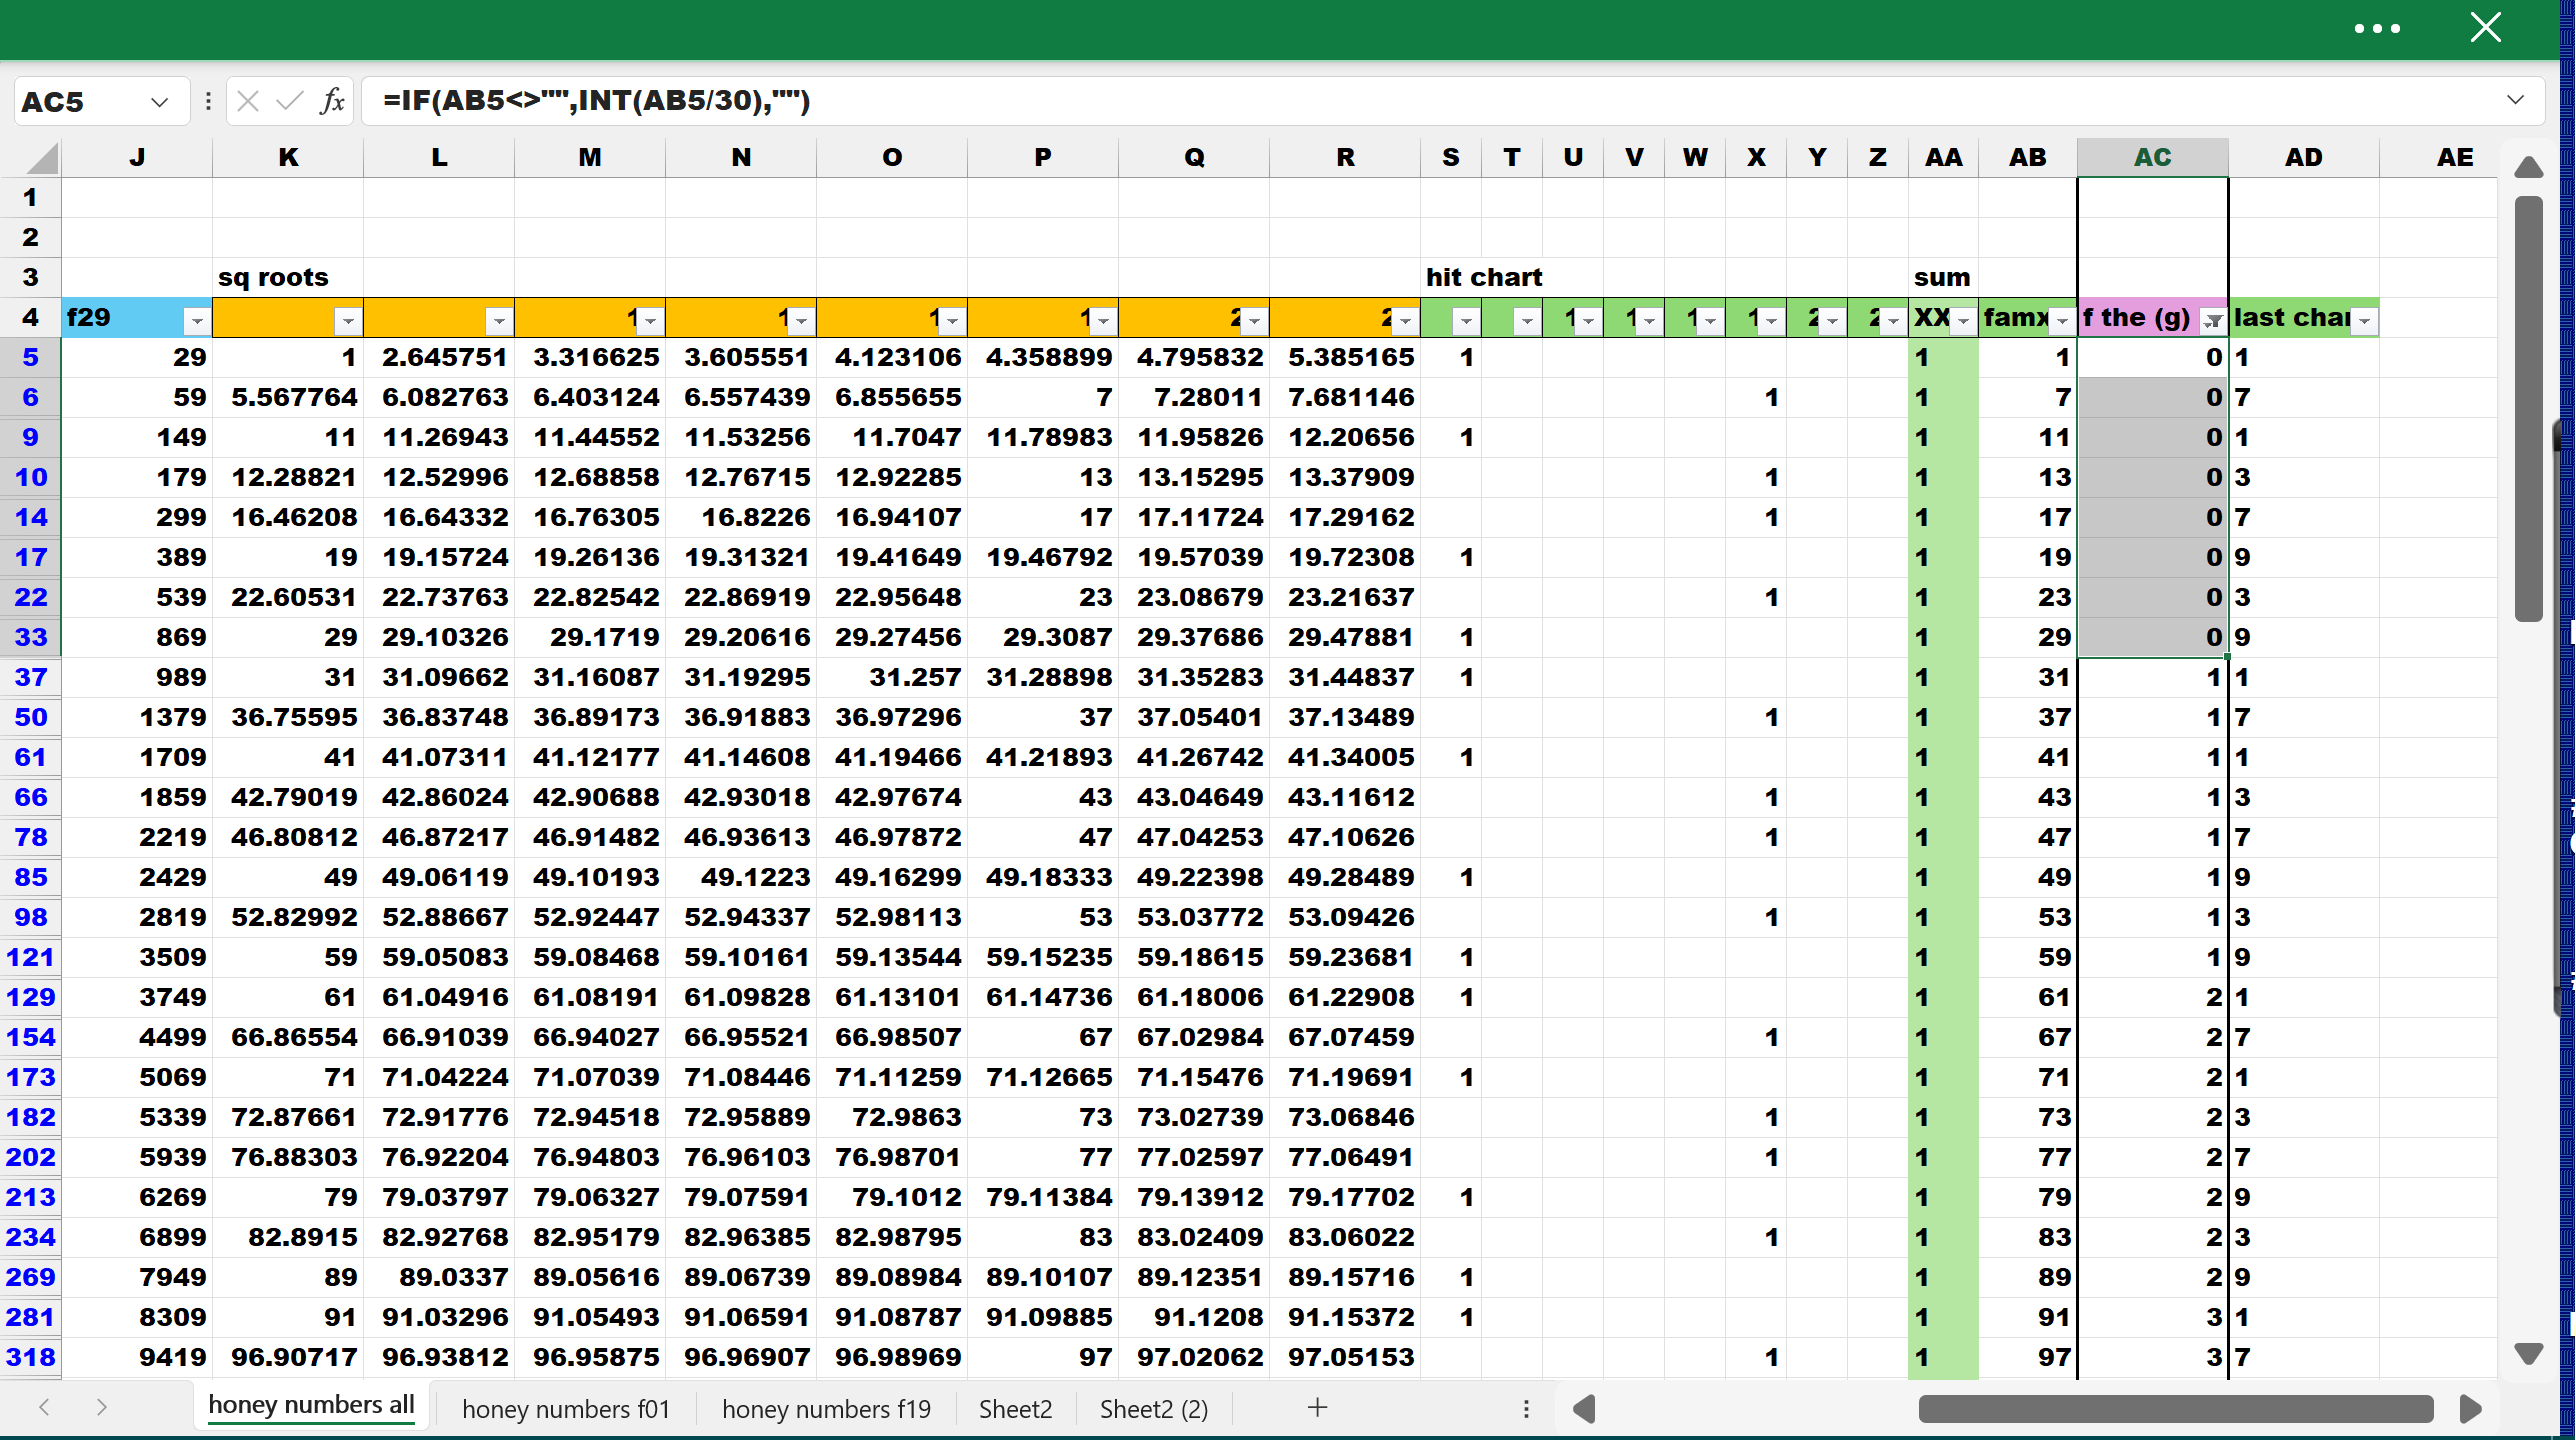
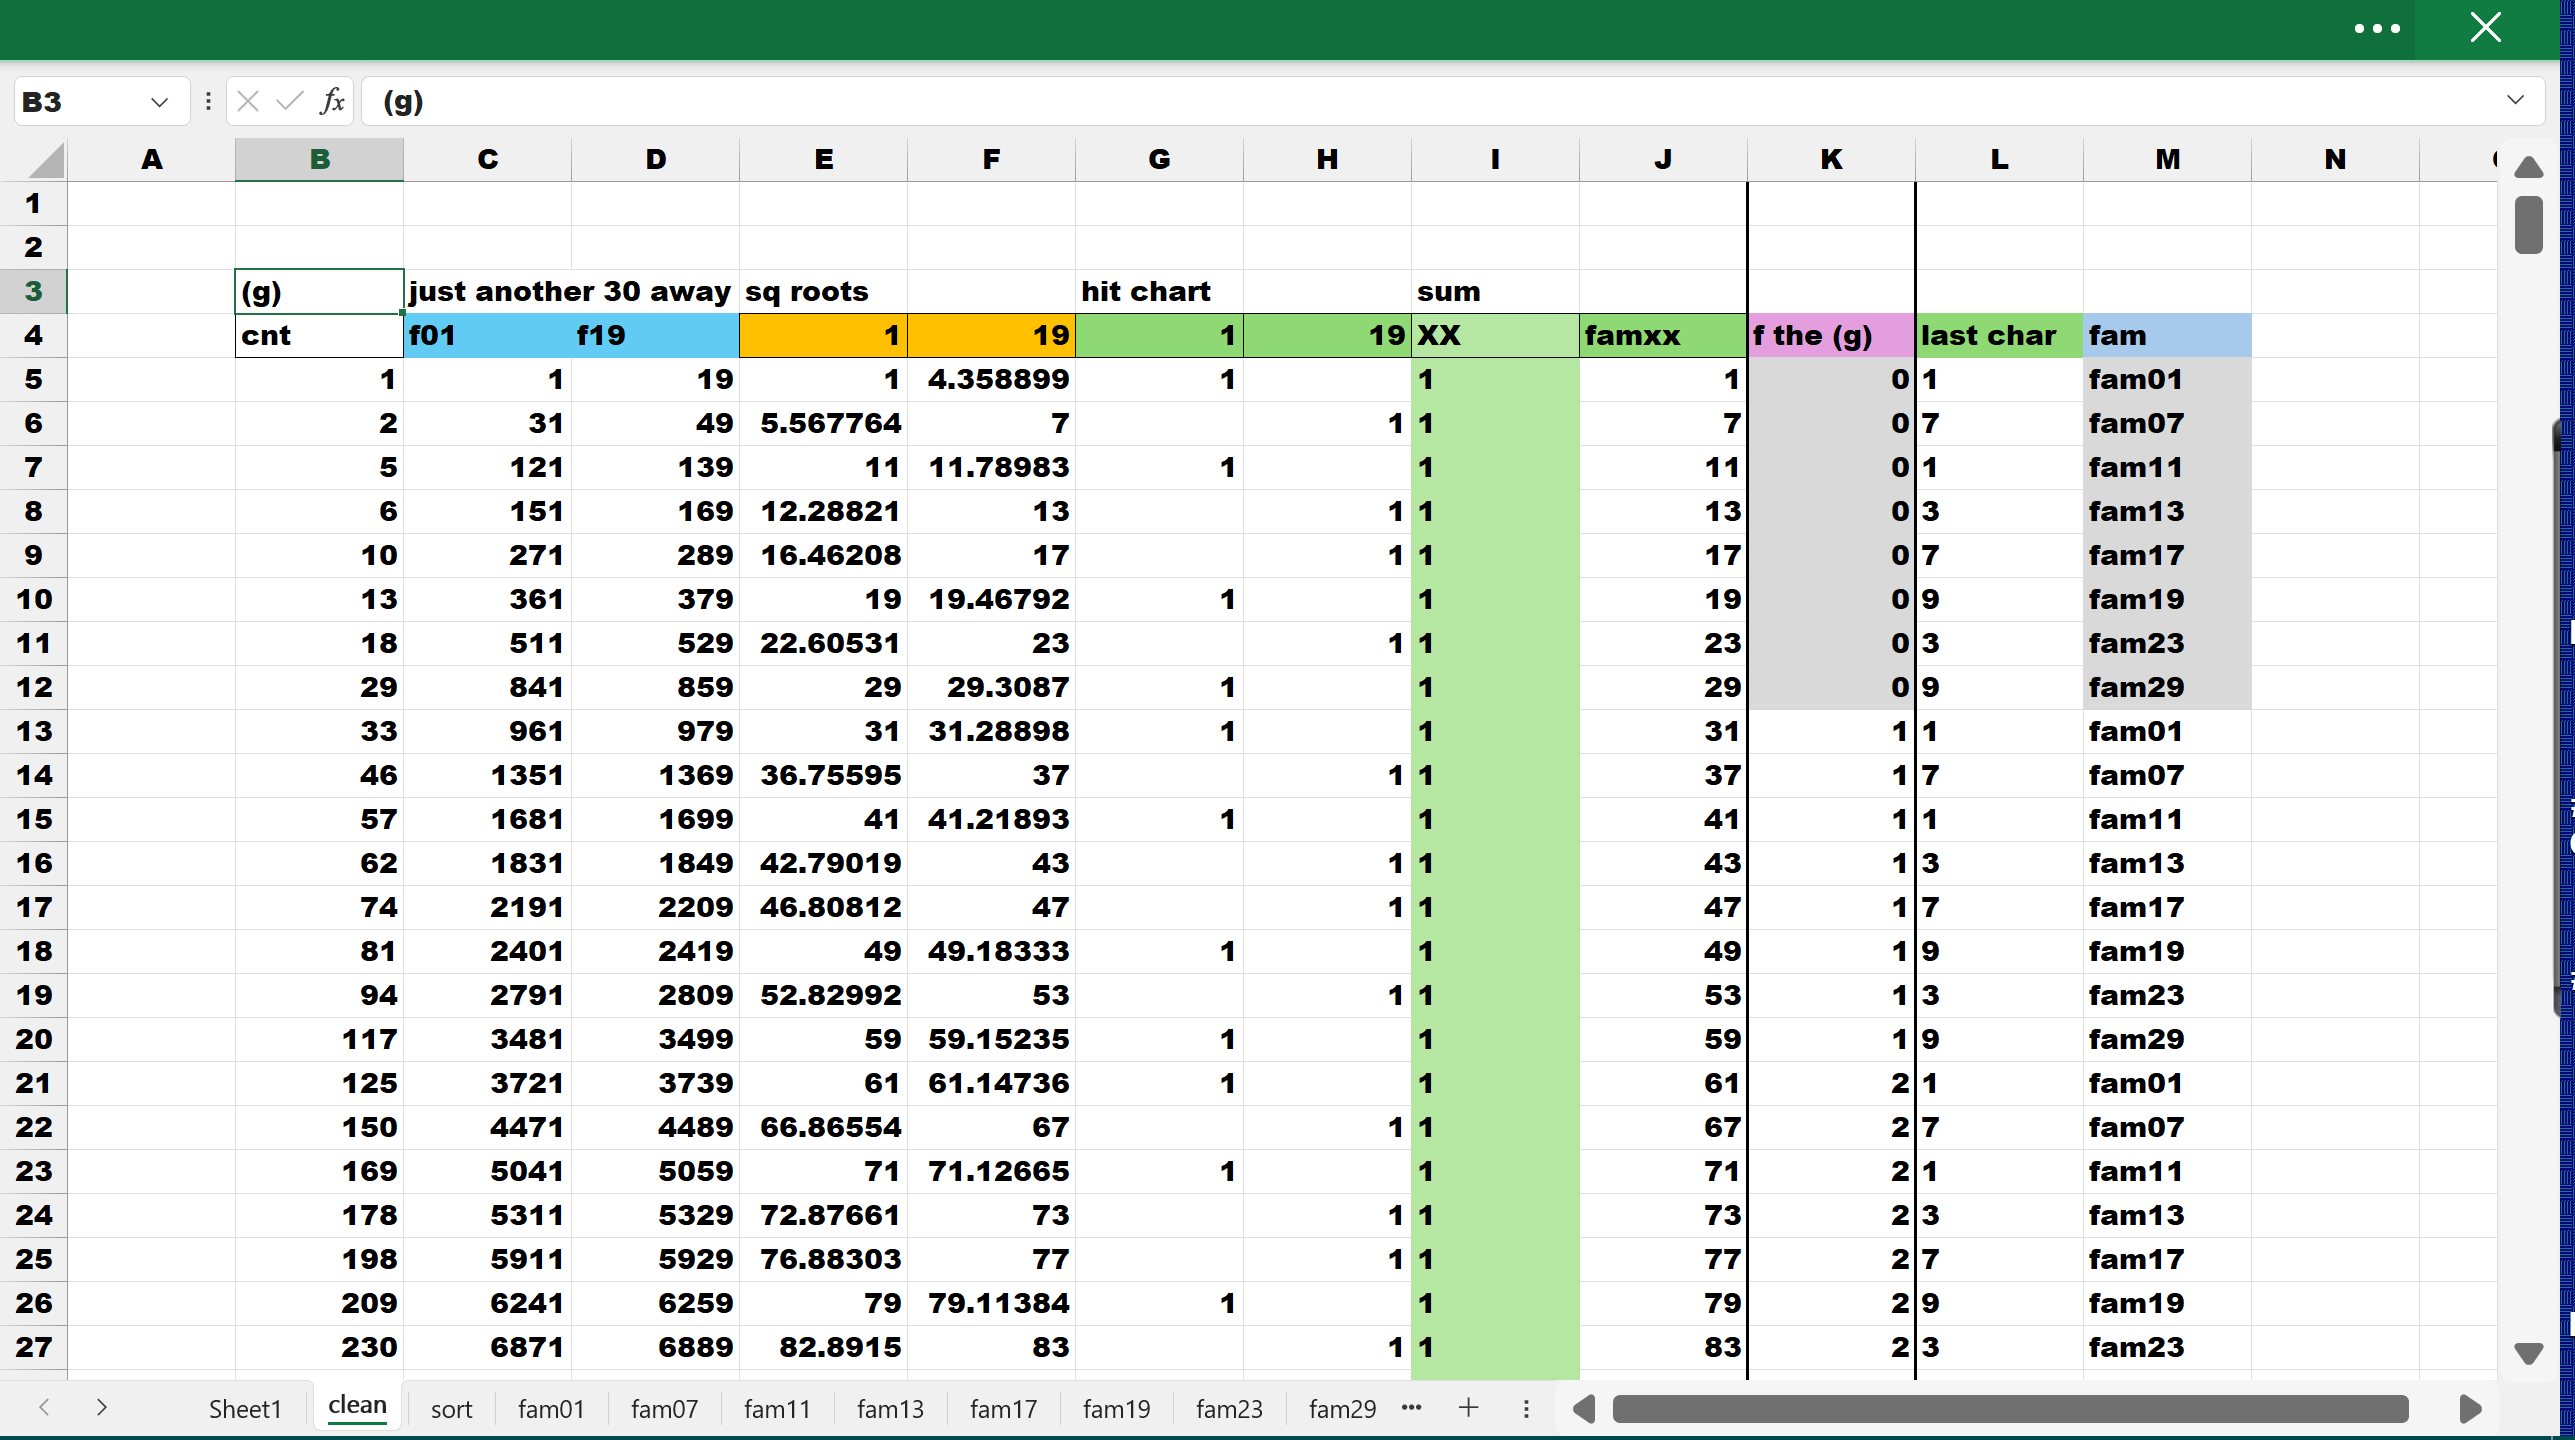
1500 c

diff --git a/html/Chapter 1500 Honey Numbers c.html b/html/Chapter 1500 Honey Numbers c.html
@@ -17,7 +17,8 @@ Since the only two families (*fam01 and *fam19) present integer values , what el
 <br>
 What else can be revealed ?
 <br>
-Spinning off all the extranious data , and norrowing the focus to only *fam01 and *fam19 presents addition unique data.
+Spinning off all the extranious data , and norrowing the focus to only *fam01 and *fam19 will present
+<br> addition unique data.
 <br>
 Here is the unfiltered data again.  
 <br>
@@ -25,11 +26,32 @@ Here is the unfiltered data again.
 <img src="../scr/Chapter_1502_01.png">
 <p></p>
    
-
-
 </p>  
 	  
-	  
+<p>
+This is the two families (*fam01 and *fam19) cleaned up , with no extraniuos data.
+<br>
+The 'just another 30 away' values are in columns C and D (blue).
+<br>
+The  "sq root" are in columns E and F (gold).
+<br>
+Followed by the "hit chart" in columns G and H (green).
+<br>
+"sum" is the sumation of the "hit chart" column I.
+<br>
+"famxx" is the integer value from the "sq root" columns.
+<br>
+The column K is "f the (g)" (find the (g)).
+<br>
+The last column M is "fam" which will be used to sort the data again.
+
+<p></p>
+<img src="../scr/Chapter_1502_02.png">
+<p></p>
+   
+
+
+</p>    
 	  
 	  
 	  
@@ -66,7 +88,7 @@ Here is the unfiltered data again.
 
 
 
-<a href="https://cashfields.github.io/PrimeSuspects/html/Chapter 1500 Honey Numbers c.html" target="_self">next</a>
+<a href="https://cashfields.github.io/PrimeSuspects/html/Chapter 1500 Honey Numbers d.html" target="_self">next</a>
 <br>
 <a href="https://cashfields.github.io/PrimeSuspects/index.html">index</a>
 	   

diff --git a/index.html b/index.html
@@ -115,6 +115,8 @@ find bad text
 </p>  
 <p> <a href="https://cashfields.github.io/PrimeSuspects/html/Chapter 1500 Honey Numbers c.html" target="_self">Chapter 1500 Honey Numbers c</a>
 </p>  
+<p> <a href="https://cashfields.github.io/PrimeSuspects/html/Chapter 1500 Honey Numbers d.html" target="_self">Chapter 1500 Honey Numbers d</a>
+</p>  
 
 
 
